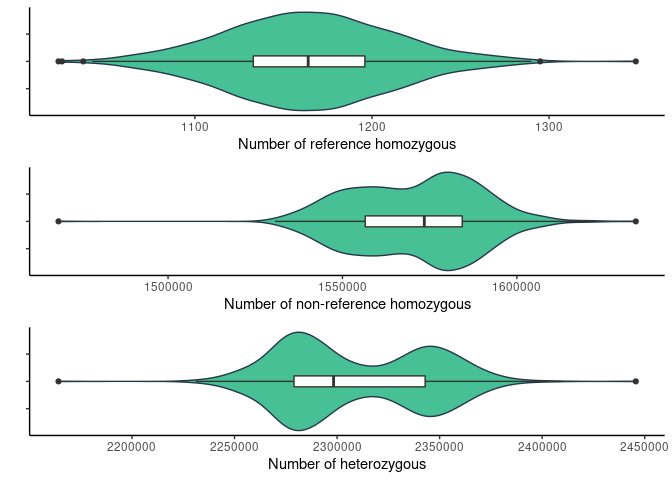
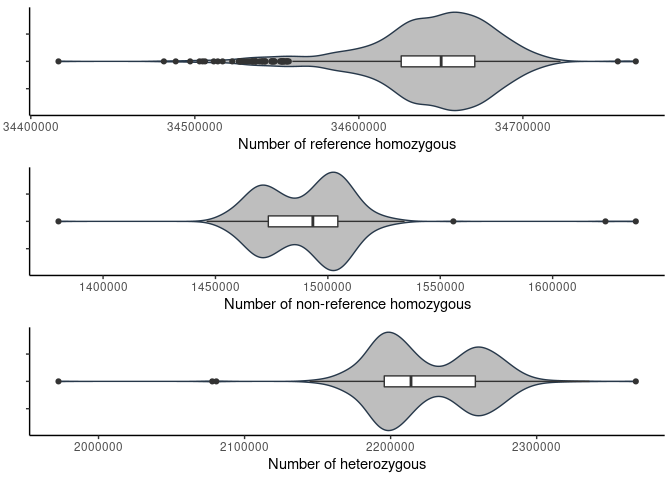
1222 samples

diff --git a/qc/qc.md b/qc/qc.md
@@ -3,29 +3,30 @@ qc
 
 ## 1. Sequencing statistics (in millions)
 
-| stat                    |    min | median |   mean |     max |
-|:------------------------|-------:|-------:|-------:|--------:|
-| flagstat\_total         | 657.46 | 838.53 | 833.66 | 1158.11 |
-| mapped\_passed          | 655.58 | 835.38 | 830.84 | 1148.59 |
-| properly.paired\_passed | 634.89 | 805.31 | 801.00 | 1115.78 |
+| stat                   |    min | median |   mean |     max |
+|:-----------------------|-------:|-------:|-------:|--------:|
+| flagstat_total         | 657.46 | 838.47 | 833.13 | 1151.19 |
+| mapped_passed          | 655.58 | 835.37 | 830.32 | 1147.28 |
+| properly.paired_passed | 634.89 | 805.36 | 800.51 | 1111.85 |
 
-![](qc_files/figure-gfm/flagstat-1.jpeg)<!-- -->
+![](qc_files/figure-gfm/flagstat-1.png)<!-- -->
 
 Total reads outliers
 
-| sample | flagstat\_total |
-|-------:|----------------:|
-|     72 |        1102.320 |
-|    237 |        1151.191 |
-|    725 |        1111.492 |
-|    771 |        1022.770 |
-|   1176 |        1158.111 |
-|   1177 |        1155.883 |
+| sample | flagstat_total |
+|-------:|---------------:|
+|     70 |       1102.320 |
+|    234 |       1151.191 |
+|    718 |       1111.492 |
+|    764 |       1022.770 |
 
-### Call rate
-
-<img src="qc_files/figure-gfm/var_miss.png" width="2240" />
-
+<!-- ### Call rate -->
+<!-- ```{r variant_missing_call_rate, echo=FALSE} -->
+<!-- library(png) -->
+<!-- img1_path <- "qc_files/figure-gfm/var_miss.png" -->
+<!-- img1 <- readPNG(img1_path, native = TRUE, info = TRUE) -->
+<!-- include_graphics(img1_path) -->
+<!-- ``` -->
 <!-- ```{r filtered_variant_missing_call_rate, echo=FALSE} -->
 <!-- library(png) -->
 <!-- img1_path <- "qc_files/figure-gfm/filtered_var_miss.png" -->
@@ -56,71 +57,112 @@ Total reads outliers
 
 ## 2. Depth statistics
 
-| stat                  |   min | median |  mean |   max |
-|:----------------------|------:|-------:|------:|------:|
-| average\_depth        | 28.40 |  35.41 | 35.26 | 48.10 |
-| percentage\_above\_10 | 91.40 |  91.93 | 91.90 | 92.41 |
-| percentage\_above\_20 | 84.15 |  89.11 | 89.19 | 91.27 |
-| percentage\_above\_30 | 49.05 |  78.69 | 76.84 | 90.00 |
+| stat                |   min | median |  mean |   max |
+|:--------------------|------:|-------:|------:|------:|
+| average_depth       | 28.40 |  35.40 | 35.25 | 48.10 |
+| percentage_above_10 | 91.40 |  91.93 | 91.90 | 92.37 |
+| percentage_above_20 | 84.15 |  89.10 | 89.18 | 91.27 |
+| percentage_above_30 | 49.05 |  78.70 | 76.82 | 90.00 |
 
 Average depth outliers
 
-| sample | average\_depth |
-|-------:|---------------:|
-|    709 |          42.95 |
-|    771 |          42.99 |
-|    748 |          43.17 |
-|   1176 |          45.19 |
-|   1177 |          45.26 |
-|    725 |          45.75 |
-|     72 |          46.01 |
-|    237 |          48.10 |
+| sample | average_depth |
+|-------:|--------------:|
+|    702 |         42.95 |
+|    764 |         42.99 |
+|    741 |         43.17 |
+|    718 |         45.75 |
+|     70 |         46.01 |
+|    234 |         48.10 |
 
     ## `stat_bin()` using `bins = 30`. Pick better value with `binwidth`.
 
-![](qc_files/figure-gfm/average_depth-1.jpeg)<!-- -->
+![](qc_files/figure-gfm/average_depth-1.png)<!-- -->
 
-![](qc_files/figure-gfm/depth_intervals-1.jpeg)<!-- -->
+![](qc_files/figure-gfm/depth_intervals-1.png)<!-- -->
 
 ## 3. Per sample count (PSC)
 
-| stat           |       min |    median |       mean |       max |
-|:---------------|----------:|----------:|-----------:|----------:|
-| average\_depth |      30.2 |      37.4 |      37.36 |      50.8 |
-| nHets          | 2054243.0 | 2298485.0 | 2309068.41 | 2445661.0 |
-| nIndels        |  792212.0 |  810419.0 |  809993.53 |  823059.0 |
-| nMissing       |  131373.0 |  150815.0 |  150664.07 |  162078.0 |
-| nNonRefHom     | 1468590.0 | 1572835.0 | 1570618.31 | 1703573.0 |
-| nRefHom        |    1023.0 |    1162.0 |    1162.60 |    1349.0 |
-| nSingletons    | 4550115.0 | 4686524.0 | 4689789.11 | 4766110.0 |
-| nTransitions   | 2505851.0 | 2584424.0 | 2586949.43 | 2630499.0 |
-| nTransversions | 1251965.0 | 1291490.0 | 1292737.29 | 1316387.0 |
+| stat           |        min |     median |        mean |        max |
+|:---------------|-----------:|-----------:|------------:|-----------:|
+| average_depth  |       26.1 |       29.9 |       29.96 |       40.6 |
+| nHets          |  1972575.0 |  2213956.0 |  2224784.62 |  2367896.0 |
+| nIndels        |   737369.0 |   764415.0 |   764796.61 |   777759.0 |
+| nMissing       |   118154.0 |   154138.0 |   163614.79 |   385948.0 |
+| nNonRefHom     |  1380158.0 |  1493329.0 |  1489948.72 |  1637009.0 |
+| nRefHom        | 34416873.0 | 34650179.0 | 34643796.04 | 34768856.0 |
+| nSingletons    |     3202.0 |    15536.0 |    15877.03 |   123142.0 |
+| nTransitions   |  2414461.0 |  2491680.0 |  2493688.50 |  2556378.0 |
+| nTransversions |  1181616.0 |  1220362.5 |  1221044.84 |  1250840.0 |
 
-![](qc_files/figure-gfm/psc-1.jpeg)<!-- -->
+![](qc_files/figure-gfm/psc-1.png)<!-- -->
 
 PSC outliers
 
-| sample | nRefHom |
-|-------:|--------:|
-|    185 |    1023 |
-|   1001 |    1025 |
-|    532 |    1037 |
-|    713 |    1287 |
-|    592 |    1288 |
-|    108 |    1289 |
-|    665 |    1290 |
-|    546 |    1295 |
-|   1116 |    1307 |
-|    675 |    1349 |
+| sample |  nRefHom |
+|-------:|---------:|
+|   1012 | 34416873 |
+|    513 | 34481136 |
+|     90 | 34488359 |
+|    138 | 34497146 |
+|    658 | 34502907 |
+|    155 | 34504710 |
+|    233 | 34506196 |
+|     86 | 34511535 |
+|    207 | 34514003 |
+|     61 | 34516923 |
+|    139 | 34522796 |
+|    149 | 34526772 |
+|    194 | 34527426 |
+|    141 | 34527828 |
+|   1024 | 34528074 |
+|     91 | 34529684 |
+|     56 | 34531574 |
+|    231 | 34533006 |
+|     93 | 34534559 |
+|   1010 | 34535110 |
+|    498 | 34535445 |
+|    982 | 34535790 |
+|    676 | 34536944 |
+|   1017 | 34537082 |
+|     92 | 34537280 |
+|    112 | 34539593 |
+|   1020 | 34541003 |
+|   1018 | 34541159 |
+|   1028 | 34542042 |
+|    104 | 34542922 |
+|   1015 | 34543006 |
+|    232 | 34546653 |
+|     98 | 34546887 |
+|    140 | 34547451 |
+|   1016 | 34547631 |
+|    147 | 34548486 |
+|    153 | 34548588 |
+|    998 | 34551969 |
+|     80 | 34552621 |
+|    990 | 34553063 |
+|   1026 | 34553154 |
+|    675 | 34553303 |
+|    214 | 34554043 |
+|   1008 | 34554207 |
+|   1025 | 34554763 |
+|   1014 | 34555696 |
+|    221 | 34556335 |
+|   1023 | 34556404 |
+|   1002 | 34557303 |
+|    218 | 34757877 |
+|    115 | 34768856 |
 
 | sample | nNonRefHom |
 |-------:|-----------:|
-|    640 |    1468590 |
-|    200 |    1634096 |
-|     96 |    1703573 |
+|    658 |    1380158 |
+|    218 |    1555838 |
+|    115 |    1623502 |
+|    508 |    1637009 |
 
 | sample |   nHets |
 |-------:|--------:|
-|     96 | 2054243 |
-|    200 | 2164166 |
-|    640 | 2445661 |
+|    658 | 2367896 |
+|    218 | 2080638 |
+|    508 | 2077887 |
+|    115 | 1972575 |
